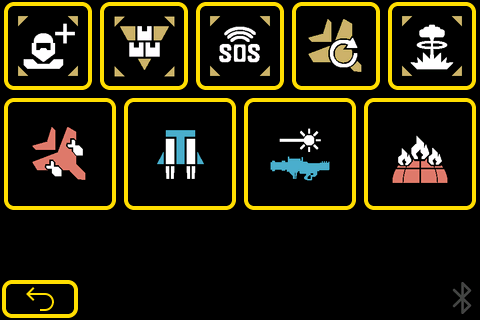
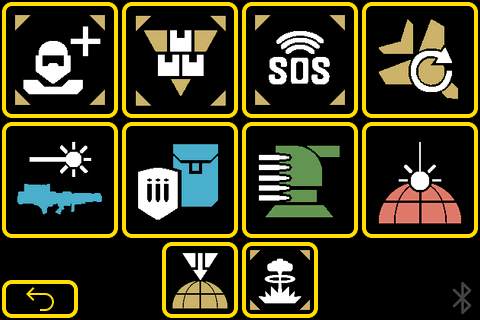
Update game screenshot and README, update game layout

diff --git a/src/ui/screens/ui_Game.c b/src/ui/screens/ui_Game.c
@@ -240,8 +240,8 @@ void ui_Game_screen_init(void)
     lv_obj_set_style_pad_column(ui_Container5, 4, LV_PART_MAIN | LV_STATE_DEFAULT);
 
     ui_BtnSEAF = lv_btn_create(ui_Container5);
-    lv_obj_set_width(ui_BtnSEAF, 72);
-    lv_obj_set_height(ui_BtnSEAF, 72);
+    lv_obj_set_width(ui_BtnSEAF, 76);
+    lv_obj_set_height(ui_BtnSEAF, 76);
     lv_obj_set_x(ui_BtnSEAF, 399);
     lv_obj_set_y(ui_BtnSEAF, -11);
     lv_obj_set_align(ui_BtnSEAF, LV_ALIGN_BOTTOM_LEFT);
@@ -261,8 +261,8 @@ void ui_Game_screen_init(void)
                                            _ui_theme_alpha_colorActive);
 
     ui_BtnHellbomb = lv_btn_create(ui_Container5);
-    lv_obj_set_width(ui_BtnHellbomb, 72);
-    lv_obj_set_height(ui_BtnHellbomb, 72);
+    lv_obj_set_width(ui_BtnHellbomb, 76);
+    lv_obj_set_height(ui_BtnHellbomb, 76);
     lv_obj_set_x(ui_BtnHellbomb, 244);
     lv_obj_set_y(ui_BtnHellbomb, -8);
     lv_obj_set_align(ui_BtnHellbomb, LV_ALIGN_BOTTOM_LEFT);

diff --git a/README.md b/README.md
@@ -81,8 +81,9 @@ Instructions for printing and assembling go along with STL files on...
 - If you want to switch to gaming mode with less than 4 stratagems select just click the "Play" button
 
 ### In-game usage
-- The 5 upper stratagems are the basic items for all operation types (reinforce, resupply, SOS, rearm eagle and hellbomb).
-- The 4 lower stratagems are the ones you selected in the setup procedure.
+- The 4 upper stratagems are the basic items for all operation types (reinforce, resupply, SOS, rearm eagle).
+- The 4 middle stratagems are the ones you selected in the setup procedure.
+- The 2 lower stratagems are typical items for most operations (S.E.A.F. artillery, hellbomb).
 - Just click a strategem to activate the execution of the macro.
 - The Bluetooth icon in the lower right corner indicates the connection stats.
   - ![](squareline/assets/bt_dis.png) disconnected
